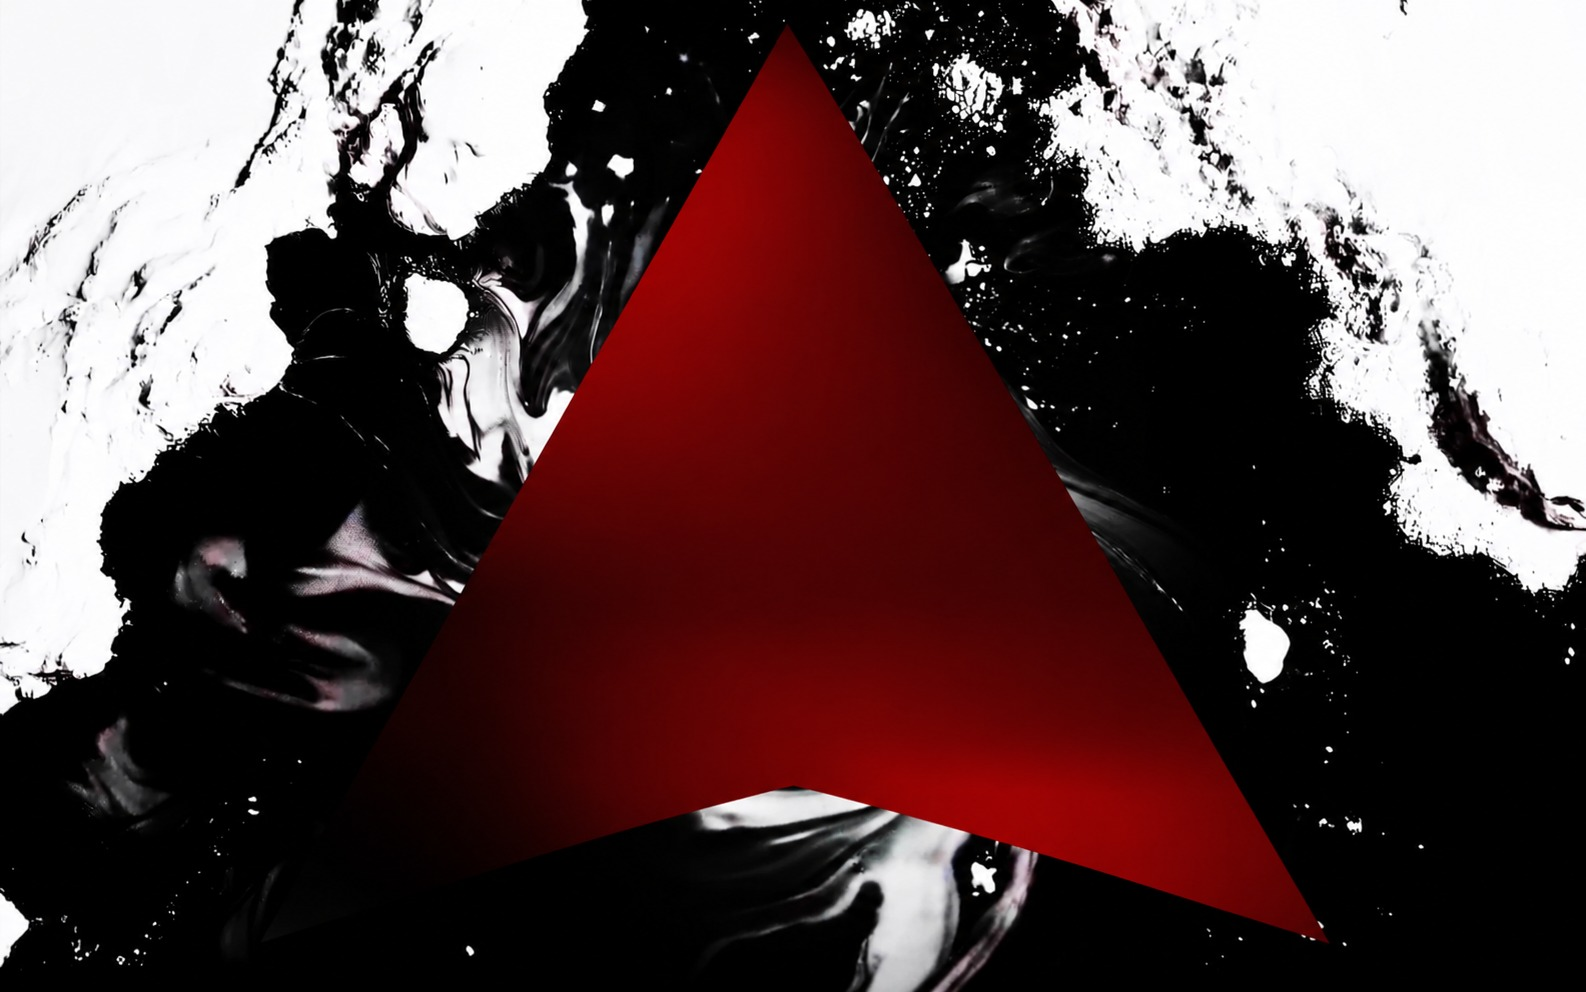
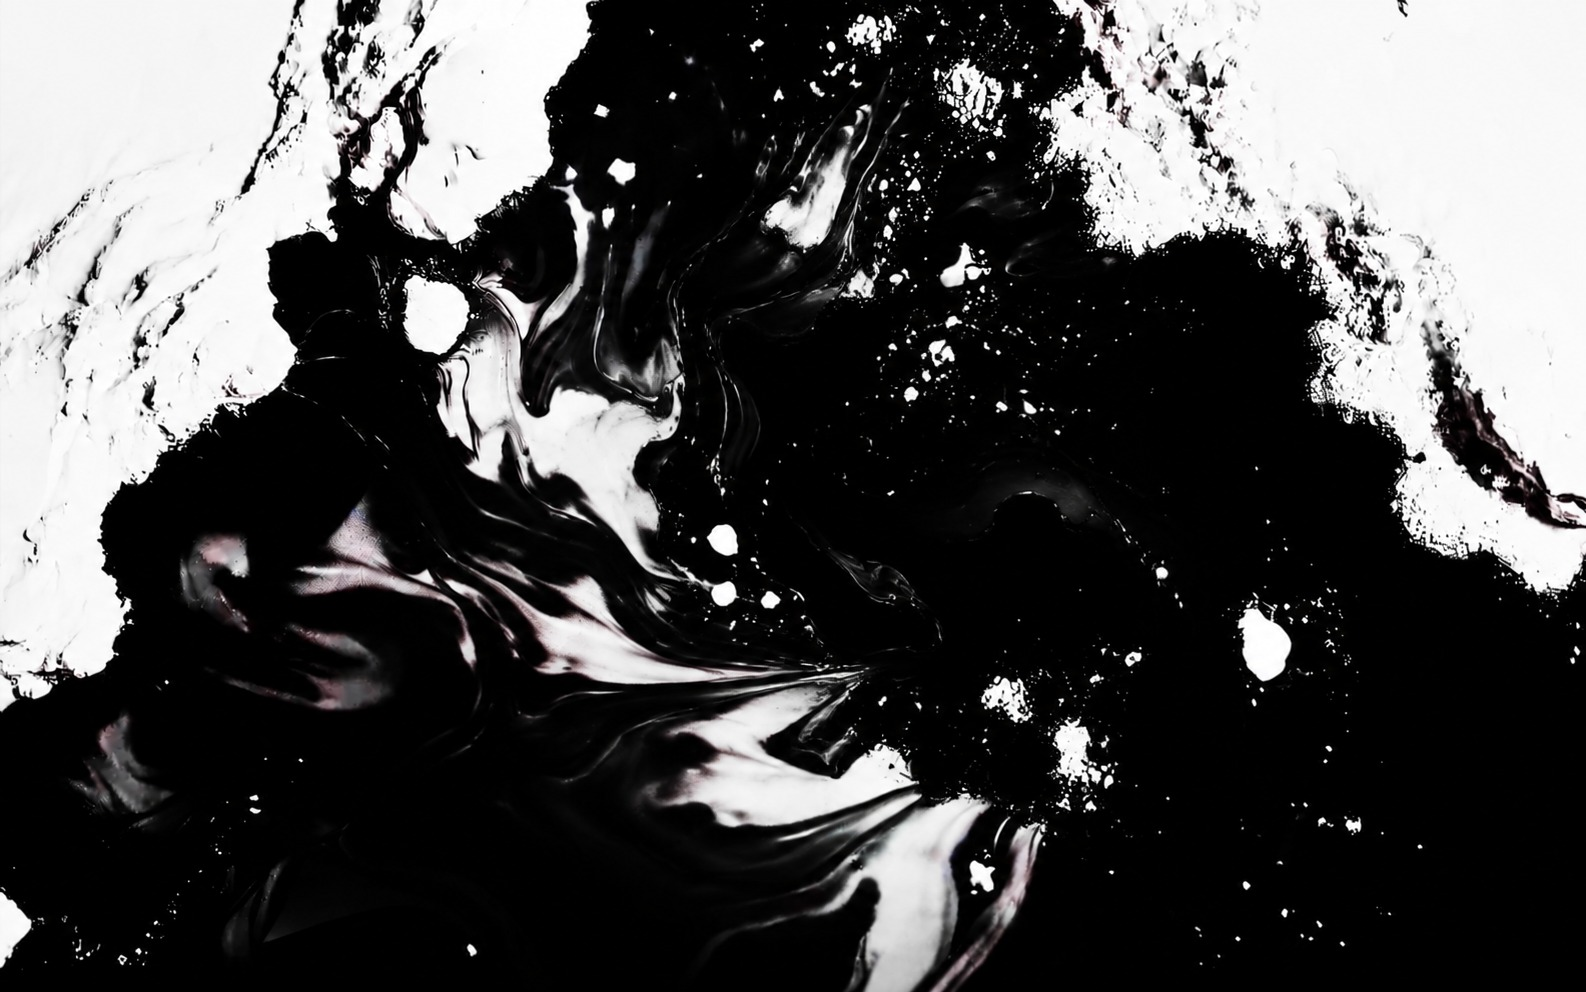
« Empty Clip » : le nouveau fond de l auteur
La meme encre, sans le triangle ; pose tel quel.

diff --git a/index.html b/index.html
@@ -13,7 +13,7 @@
 <meta property="og:image" content="assets/cover.jpg">
 <meta property="og:type" content="music.album">
 <meta name="twitter:card" content="summary_large_image">
-<link rel="stylesheet" href="style.css?v=80">
+<link rel="stylesheet" href="style.css?v=81">
 </head>
 <body>
 
@@ -5140,7 +5140,7 @@ var REDUCED = window.matchMedia('(prefers-reduced-motion: reduce)').matches;
              { src:'assets/c_v5.mp4', th:'assets/c_tv5.webp', poster:'assets/c_pv5.webp' }] },
     /* « Empty Clip » : pas encore de films ; le fond et la pochette */
     { from:20, gain:.9, meta:'5 tracks',
-      media:[{ src:'assets/bg5.jpg?v=2', th:'assets/che_th1.webp?v=2' },
+      media:[{ src:'assets/bg5.jpg?v=3', th:'assets/che_th1.webp?v=3' },
              { src:'assets/cover5.jpg', th:'assets/che_th2.webp' }] }
   ];
 

diff --git a/style.css b/style.css
@@ -2469,7 +2469,7 @@ body.alb-che .alb-name{
 /* son fond de page (provisoire, en attendant celui de l auteur) */
 body.alb-che .deco{
   display:block;position:absolute;inset:0;z-index:0;overflow:hidden;
-  background:url("assets/bg5.jpg?v=2") center center / cover no-repeat;
+  background:url("assets/bg5.jpg?v=3") center center / cover no-repeat;
   pointer-events:none;opacity:0;transition:opacity 1.4s ease .3s;
 }
 body.alb-che.is-stage .deco,body.alb-che.is-lighten .deco{opacity:1}
